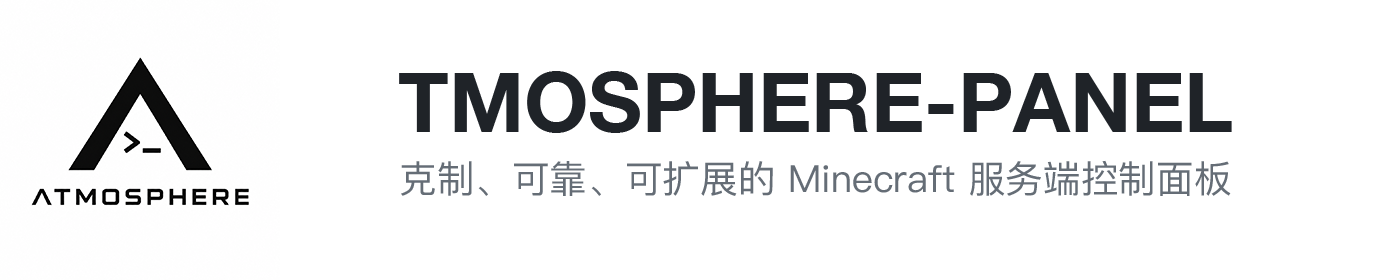
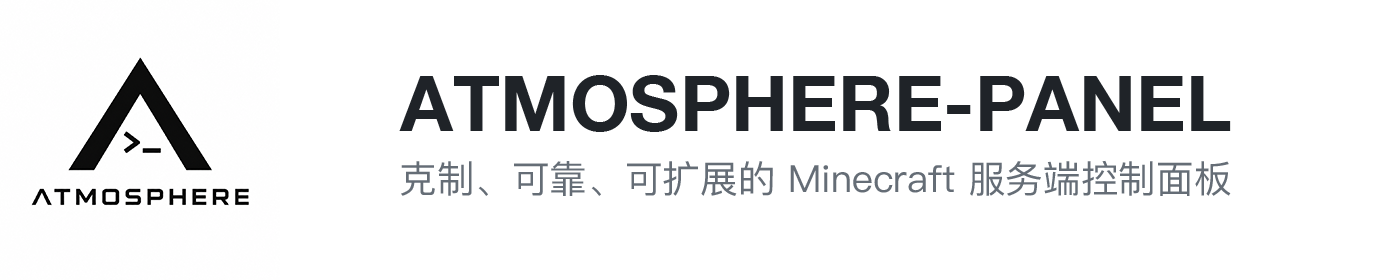
docs: synchronize English and Japanese READMEs
- 按照中文 README 同步英文和日文文档内容
- 修复图片

Changed region(s): [[0.2764, 0.2571, 0.86, 0.4857]]

diff --git a/README_JP.md b/README_JP.md
@@ -1,10 +1,10 @@
-<div align="center">
-  <img src="IMG/Nuxt.png" style="width: 128px; height: 128px;">
-</div>
-
-<h1 align="center">
-  ATMOSPHERE-PANEL
-</h1>
+<p align="center">
+  <picture>
+    <source media="(prefers-color-scheme: dark)" srcset="header-dark.png">
+    <source media="(prefers-color-scheme: light)" srcset="header-light.png">
+    <img src="header-dark.png" width="700" alt="Banner">
+  </picture>
+</p>
 
 <p align="center">
   <!-- HTML5 -->
@@ -30,14 +30,31 @@
 </p>
 
 <p align="center">
-  <a href="README_EN.md">English</a> | <a href="README.md">简体中文</a> | 日本語
+  <a href="./README_EN.md">English</a> | <a href="./README.md">简体中文</a> | 日本語
 </p>
 
-<p align="center">
-  多用途で、節度があり、信頼性が高く、直感的な Minecraft サーバーコンソールの作成を目指しています。
-</p>
+## 概要
+
+ATMOSPHERE-PANEL は、Web ベースの Minecraft サーバー管理パネルです。認証で保護されたインターフェースを通じて、サーバーインスタンスの登録、サーバーコアとバージョンの選択、バックエンド API を利用したサーバーファイルのデプロイを行えます。
+
+プロジェクトは次の 2 つの部分で構成されています。
+
+- `frontend/` — Nuxt ベースの Web インターフェース
+- `backend/` — SQLite ストレージとデプロイ API を備えた FastAPI サービス
+
+## 機能
+
+- 安全なパスワードハッシュとセッション Cookie を使用した認証機能
+- インスタンス ID とポートを管理する Minecraft サーバーインスタンス管理
+- 複数の Java 版、Bedrock 版、MCDR のコアとバージョンの選択に対応
+- `.zip` および `.tar.gz` 形式のサーバーコアと Modpack アーカイブの処理に対応
+- パストラバーサルと危険なファイルを検査する安全なアーカイブ展開
+- デプロイ時の Java バージョンと JVM メモリ設定
+- 一部のリソースに対する公式リソース参照とミラー設定
+- SQLite に基づくローカルデータストレージ
 
 ## クイックスタート
+
 リポジトリをクローンします
   ```bash
   git clone https://github.com/MiryexOvO/ATMOSPHERE-Panel.git
@@ -58,17 +75,27 @@ npm run dev
 # 4. 本番環境へデプロイ
 npm run build
 
-# 5. 正式版をローカルでプレビュー
+# 5. 本番版をローカルでプレビュー
 npm run preview
 ```
- 
+
 デフォルトのパネルポート：`27777`、設定可能  
 `http://127.0.0.1:5173` にアクセスしてください。現在 Nuxt はクライアントサイドレンダリングを使用しており、API は `/api` を通じて FastAPI `27777` にプロキシされます  
 初回起動時、ターミナルには 20 文字の初期パスワードが一度だけ表示されます
 
-## バックエンド（[FastAPI](https://fastapi.tiangolo.com/)）
+## バックエンド開発（[FastAPI](https://fastapi.tiangolo.com/)）
 
-### Linux
+
+### Linux ワンクリックデプロイ（推奨）
+
+```bash
+wget -qO install.sh https://raw.githubusercontent.com/MiryexOvO/ATMOSPHERE-Panel/main/install.sh
+sudo bash install.sh
+```
+
+スクリプトはインストールパスとポートを対話形式で確認し、依存関係、Python 仮想環境、Nuxt のビルド、systemd への登録を自動的に完了します。
+
+### Linux 手動デプロイ
 
 ```bash
 # 1. プロジェクトフォルダに移動
@@ -103,8 +130,31 @@ Set-ExecutionPolicy -Scope Process Bypass
 Linux コマンド `.venv/bin/activate` は使用しないでください。Windows の仮想環境のエントリーポイントは `.venv\\Scripts\\python.exe` です  
 Python 3.14 のシステム pip が壊れている場合は、Python 3.12 または 3.13 を使用して仮想環境を作成することをおすすめします
 
-## ライセンス
-このプロジェクトは [MIT License](LICENSE) のもとで公開されています ^ ^ 
+## サービス管理
 
-## メンテナンスとサポート  
-Maintained by [Miryex](https://www.astrelia7.com)。
+```bash
+sudo systemctl status atmosphere-panel.service
+sudo systemctl restart atmosphere-panel.service
+sudo journalctl -u atmosphere-panel.service -f
+```
+
+## 注意事項
+
+- バージョンに関するお知らせ：このバージョンはまだ正常に使用できません。すべての機能が正常に使用できるようになるのは 0.2 版の予定です ^ ^
+- Windows 起動スクリプトはクロスプラットフォーム開発専用です
+- 初期パスワードは初回の初期化時にのみ出力されます
+
+## 開発チェック
+
+```bash
+cd frontend && npm run build
+cd ../backend && find app -name "*.py" -print0 | xargs -0 -n1 python3 -m py_compile
+```
+
+## ライセンス
+
+このプロジェクトは [MIT License](LICENSE) を採用しています
+
+## メンテナンスとサポート
+
+Maintained by [Miryex](https://www.astrelia7.com)

diff --git a/README_EN.md b/README_EN.md
@@ -1,10 +1,10 @@
-<div align="center">
-  <img src="IMG/Nuxt.png" style="width: 128px; height: 128px;">
-</div>
-
-<h1 align="center">
-  ATMOSPHERE-PANEL
-</h1>
+<p align="center">
+  <picture>
+    <source media="(prefers-color-scheme: dark)" srcset="header-dark.png">
+    <source media="(prefers-color-scheme: light)" srcset="header-light.png">
+    <img src="header-dark.png" width="700" alt="Banner">
+  </picture>
+</p>
 
 <p align="center">
   <!-- HTML5 -->
@@ -23,21 +23,38 @@
   <a href="https://fastapi.tiangolo.com/" target="_blank"><img src="https://img.shields.io/badge/FastAPI-005571?style=for-the-badge&logo=fastapi&logoColor=white" alt="FastAPI"/></a>
   <!-- SQLite -->
   <a href="https://www.sqlite.org/" target="_blank"><img src="https://img.shields.io/badge/SQLite-07405E?style=for-the-badge&logo=sqlite&logoColor=white" alt="SQLite"/></a>
-  <!-- bcrypt (Shields.io uses a generic Security badge instead) -->
+  <!-- bcrypt（Shields.io uses a generic Security badge instead） -->
   <a href="https://github.com/pyca/bcrypt" target="_blank"><img src="https://img.shields.io/badge/Bcrypt-000000?style=for-the-badge&logo=security&logoColor=white" alt="bcrypt"/></a>
   <!-- License -->
   <a href="https://opensource.org/licenses/MIT" target="_blank"><img src="https://img.shields.io/badge/License-MIT-green.svg?style=for-the-badge" alt="MIT License"></a>
 </p>
 
 <p align="center">
-  English | <a href="README.md">简体中文</a> | <a href="README_JP.md">日本語</a>
+  English | <a href="./README.md">简体中文</a> | <a href="README_JP.md">日本語</a>
 </p>
 
-<p align="center">
-  This project aims to create a versatile, restrained, reliable, and intuitive Minecraft server control panel.
-</p>
+## Overview
+
+ATMOSPHERE-PANEL is a web-based Minecraft server management panel. Through an authentication-protected interface, you can register server instances, select server cores and versions, and deploy server files using the backend API.
+
+The project consists of two parts:
+
+- `frontend/` — Nuxt-based web interface
+- `backend/` — FastAPI service with SQLite storage and deployment API
+
+## Features
+
+- Authentication using secure password hashing and session cookies
+- Minecraft server instance management with instance IDs and port management
+- Selection of multiple Java Edition, Bedrock Edition, and MCDR cores and versions
+- Support for processing server core and Modpack archives in `.zip` and `.tar.gz` formats
+- Secure archive extraction with path traversal and dangerous file checks
+- Java version and JVM memory settings during deployment
+- Official resource references and mirror settings for selected resources
+- Local data storage based on SQLite
 
 ## Quick Start
+
 Clone the repository
   ```bash
   git clone https://github.com/MiryexOvO/ATMOSPHERE-Panel.git
@@ -61,14 +78,24 @@ npm run build
 # 5. Preview the production version locally
 npm run preview
 ```
- 
+
 Default panel port: `27777`, configurable  
 Visit `http://127.0.0.1:5173`. Nuxt currently uses client-side rendering, and the API is proxied to FastAPI `27777` through `/api`  
 On the first startup, the terminal prints the 20-character initial password only once
 
-## Backend ([FastAPI](https://fastapi.tiangolo.com/))
+## Backend Development ([FastAPI](https://fastapi.tiangolo.com/))
 
-### Linux
+
+### One-click Linux Deployment (Recommended)
+
+```bash
+wget -qO install.sh https://raw.githubusercontent.com/MiryexOvO/ATMOSPHERE-Panel/main/install.sh
+sudo bash install.sh
+```
+
+The script interactively asks for the installation path and port, then automatically completes dependency installation, Python virtual environment creation, Nuxt build, and systemd registration.
+
+### Manual Linux Deployment
 
 ```bash
 # 1. Enter the project directory
@@ -103,8 +130,31 @@ Set-ExecutionPolicy -Scope Process Bypass
 Do not use the Linux command `.venv/bin/activate`; the Windows virtual environment entry point is `.venv\\Scripts\\python.exe`  
 If the system pip for Python 3.14 is damaged, it is recommended to use Python 3.12 or 3.13 to create the virtual environment
 
-## License
-This project is licensed under the [MIT License](LICENSE) ^ ^ 
+## Service Management
 
-## Maintenance and Support  
-Maintained by [Miryex](https://www.astrelia7.com).
+```bash
+sudo systemctl status atmosphere-panel.service
+sudo systemctl restart atmosphere-panel.service
+sudo journalctl -u atmosphere-panel.service -f
+```
+
+## Notes
+
+- Version notice: This version is not yet fully functional. It is expected that all features will work properly in version 0.2 ^ ^
+- The Windows startup script is intended only for cross-platform development
+- The initial password is output only during the first initialization
+
+## Development Checks
+
+```bash
+cd frontend && npm run build
+cd ../backend && find app -name "*.py" -print0 | xargs -0 -n1 python3 -m py_compile
+```
+
+## License
+
+This project is licensed under the [MIT License](LICENSE)
+
+## Maintenance and Support
+
+Maintained by [Miryex](https://www.astrelia7.com)
